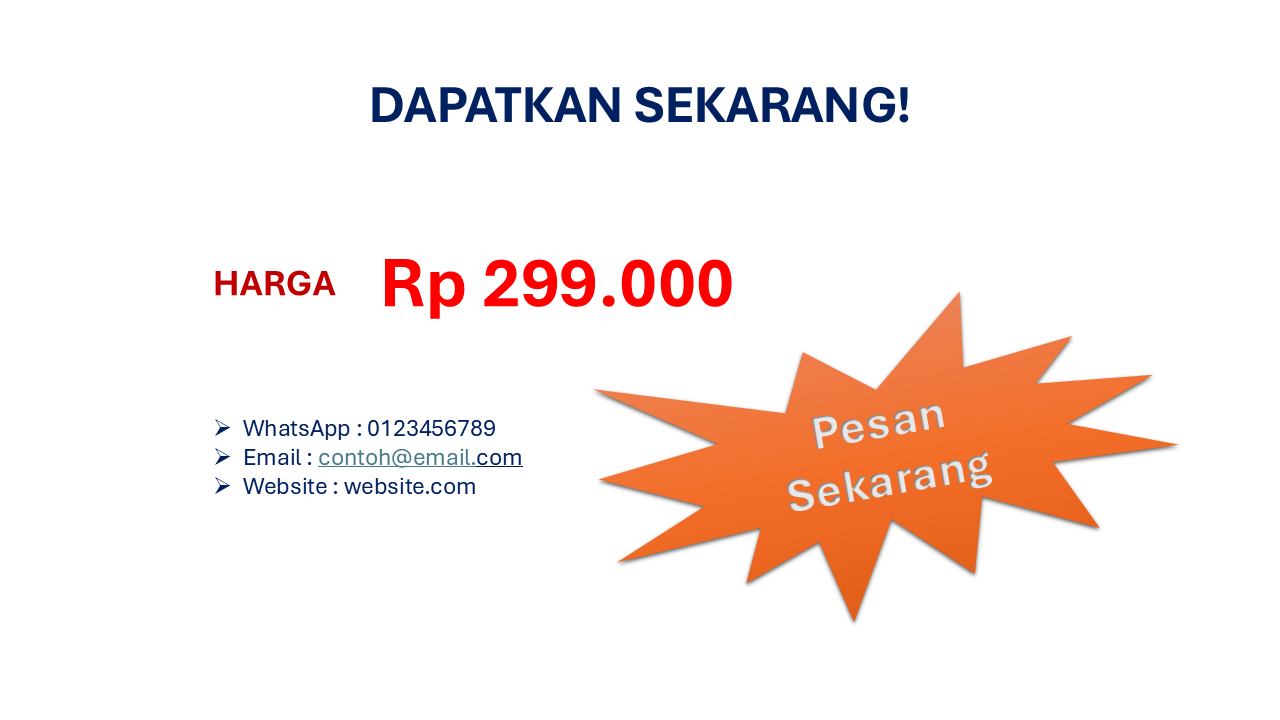
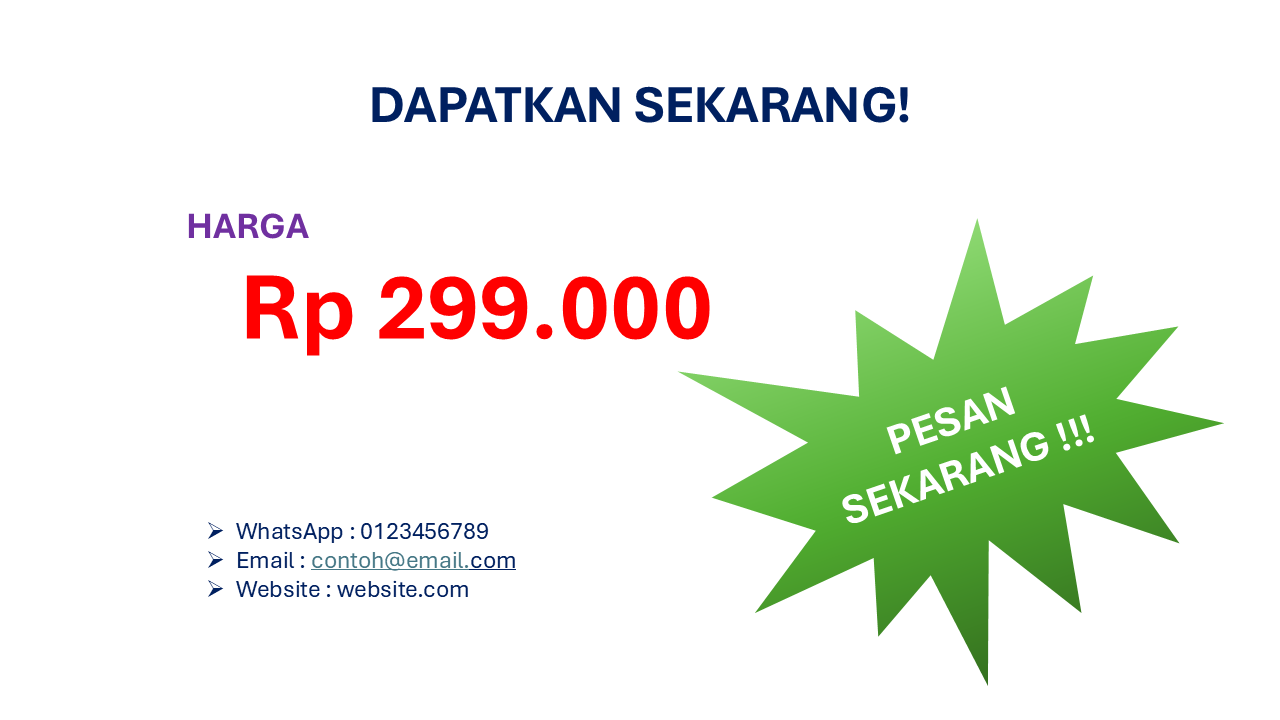
M

diff --git a/materi-powerpoint.html b/materi-powerpoint.html
@@ -3311,13 +3311,13 @@
                                       <li>Klik Tab <strong>Home</strong>.</li>
                                       <li>Klik <strong>New Slide</strong>.</li>
                                       <li>Pilih <strong>Layout</strong> → <strong>Title Only</strong>.</li>
-                                      <li>Judul: "<strong>TESTIMONI</strong>".</li>                                      
+                                      <li>Judul: "<strong>TESTIMONI</strong>".</li>
                                       <li>
                                         <strong>Insert</strong> → <strong>Text Box</strong> → ketik Quote Pelanggan:
                                         <figure class="my-2">
                                           <blockquote class="blockquote fs-6">
                                             <p><em>"Sejak memakai SmartBottle saya jadi lebih rutin
-                                              minum air setiap hari."</em></p>
+                                                minum air setiap hari."</em></p>
                                           </blockquote>
                                           <figcaption class="blockquote-footer">
                                             Andi, Jakarta</cite>
@@ -3343,20 +3343,19 @@
                               <li class="mb-3">
                                 <div class="row">
                                   <div class="col-md-6">
-                                    <strong>Slide 5 — Call to Action:</strong> Kontak + harga + tombol ajakan.
+                                    <strong>Slide 5 — Call to Action:</strong> <br> Kontak + Harga + Tombol Ajakan.
                                     <ol>
-                                      <li>Klik <strong>Home</strong> → <strong>New Slide</strong> → pilih layout
-                                        <strong>Title Only</strong>.
-                                      </li>
-                                      <li>Klik Judul → ketik: <strong>"Dapatkan Sekarang!"</strong>.</li>
+                                      <li>Klik Tab <strong>Home</strong>.</li>
+                                      <li>Klik <strong>New Slide</strong>.</li>
+                                      <li>Pilih <strong>Layout</strong> → <strong>Title Only</strong>.</li>
+                                      <li>Judul: "<strong>DAPATKAN SEKARANG!</strong>".</li>
                                       <li><strong>Insert</strong> → <strong>Text Box</strong> → ketik harga:
-                                        <strong>"Harga Rp299.000"</strong> (font 28 pt, bold, warna merah/oranye).
+                                        <strong>"Harga Rp299.000"</strong> (Font 28 Pt, Bold, Warna Merah/Oranye suka-suka).
                                       </li>
                                       <li>
                                         <strong>Buat tombol CTA:</strong>
                                         <ul>
-                                          <li><strong>Insert</strong> → <strong>Shapes</strong> → <strong>Rectangle:
-                                              Rounded Corners</strong>.</li>
+                                          <li><strong>Insert</strong> → <strong>Shapes</strong> → <strong>Explosion: 8 Points</strong>.</li>
                                           <li>Gambar shape, lalu klik kanan <i class="bi bi-mouse2"></i> → <strong>Edit
                                               Text</strong> → ketik: <strong>"Pesan Sekarang"</strong>.</li>
                                           <li><strong>Shape Fill</strong> → pilih warna mencolok (misal: merah/oranye).
